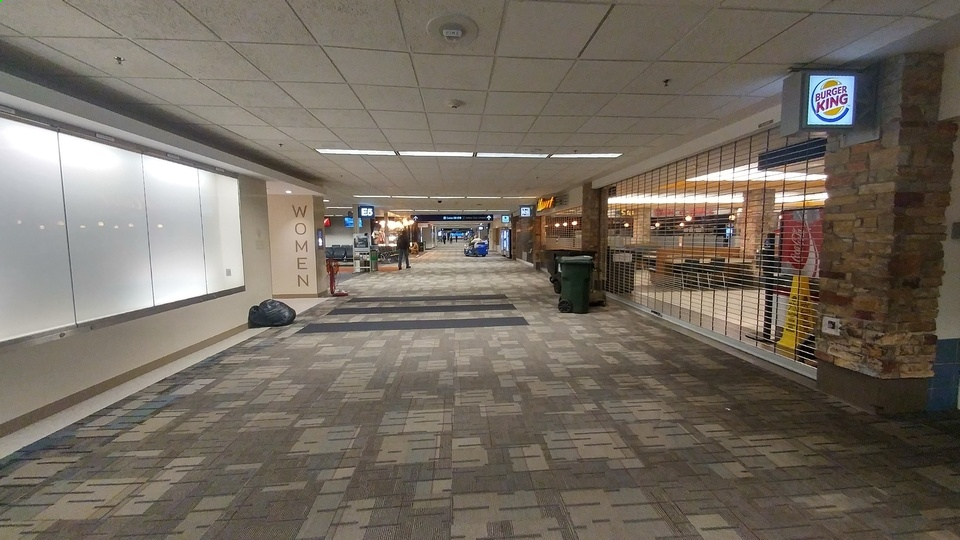
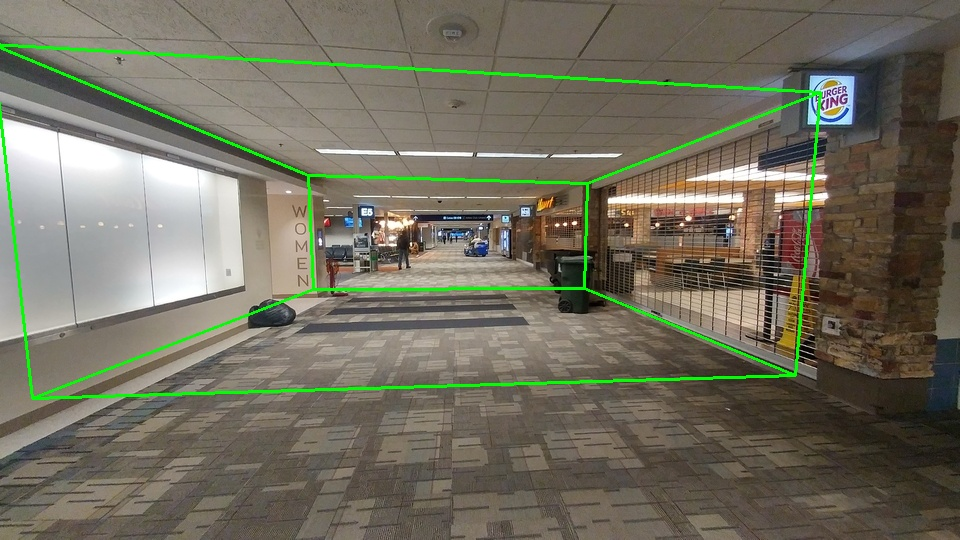
update hw2

diff --git a/hw2/HW2.py b/hw2/HW2.py
@@ -2,6 +2,7 @@ import os
 import cv2
 import numpy as np
 from pylsd import lsd
+import matplotlib.pyplot as plt
 
 np.random.seed(42)
 SAVE_IMGS = True
@@ -105,7 +106,6 @@ def FindVP(lines, K, ransac_thr = 0.04, ransac_iter = 5000):
 
     return vp_max, inlier, outlier
 
-
 def ClusterLines(lines):
     """
     Cluster lines into two sets
@@ -170,7 +170,6 @@ def CalibrateCamera(vp_x, vp_y, vp_z):
     ])
     return K
 
-
 def GetRectificationH(K, vp_x, vp_y, vp_z):
     """
     Find a homography for rectification
@@ -206,8 +205,8 @@ def GetRectificationH(K, vp_x, vp_y, vp_z):
     R = basis @ np.linalg.inv(new_basis)
 
     H_rect = K @ R @ np.linalg.inv(K)
-    return H_rect
 
+    return H_rect
 
 def ImageWarping(im, H):
     """
@@ -228,7 +227,6 @@ def ImageWarping(im, H):
     
     # TODO Your code goes here
     return cv2.warpPerspective(im, H, (im.shape[1], im.shape[0]))
-
 
 def ConstructBox(K, vp_x, vp_y, vp_z, W, a, d_near, d_far):
     """
@@ -274,21 +272,43 @@ def ConstructBox(K, vp_x, vp_y, vp_z, W, a, d_near, d_far):
     x_direction = x_direction / np.linalg.norm(x_direction)
     y_direction = y_direction / np.linalg.norm(y_direction)
 
+    #imgae 좌표계로 변환
+
     H = W / a
 
     # U
-    far_center = d_far * np.linalg.inv(K) @ z_direction
+    far_center = d_far * z_direction
     U11 = far_center + H/2 * x_direction + W/2 * y_direction
     U12 = far_center + H/2 * x_direction - W/2 * y_direction
     U21 = far_center - H/2 * x_direction + W/2 * y_direction
     U22 = far_center - H/2 * x_direction - W/2 * y_direction
 
     # V
-    near_center = d_near * np.linalg.inv(K) @ z_direction
+    near_center = d_near *  z_direction
     V11 = near_center + H/2 * x_direction + W/2 * y_direction
     V12 = near_center + H/2 * x_direction - W/2 * y_direction
     V21 = near_center - H/2 * x_direction + W/2 * y_direction
     V22 = near_center - H/2 * x_direction - W/2 * y_direction
+
+    #각 포인트 normalizing
+    U11 = U11 / U11[2]
+    U12 = U12 / U12[2]
+    U21 = U21 / U21[2]
+    U22 = U22 / U22[2]
+    V11 = V11 / V11[2]
+    V12 = V12 / V12[2]
+    V21 = V21 / V21[2]
+    V22 = V22 / V22[2]
+
+    #이미지 좌표계로 변환
+    # U11 = K @ U11 / U11[2]
+    # U12 = K @ U12 / U12[2]
+    # U21 = K @ U21 / U21[2]
+    # U22 = K @ U22 / U22[2]
+    # V11 = K @ V11 / V11[2]
+    # V12 = K @ V12 / V12[2]
+    # V21 = K @ V21 / V21[2]
+    # V22 = K @ V22 / V22[2]
     
     return U11, U12, U21, U22, V11, V12, V21, V22
 
@@ -377,7 +397,6 @@ def InterpolateCameraPose(R1, C1, R2, C2, w):
     
     return Ri, Ci
 
-
 def GetPlaneHomography(p11, p12, p21, K, R, C, vx, vy):
     """
     Interpolate the camera pose
@@ -394,7 +413,7 @@ def GetPlaneHomography(p11, p12, p21, K, R, C, vx, vy):
         Camera intrinsic parameters
     R : ndarray of shape (3, 3)
         Camera rotation matrix
-    C : ndarray of shape (3,)
+    t : ndarray of shape (3,)
         Camera optical center
     vx : ndarray of shape (h, w)
         All x coordinates in the image
@@ -409,9 +428,51 @@ def GetPlaneHomography(p11, p12, p21, K, R, C, vx, vy):
         The binary mask indicating membership to the plane constructed by p11, 
         p12, and p21
     """
+
+    # vx, vy 로 그리드를 생성
+    w = len(vx)
+    h = len(vy)
+    vx, vy = np.meshgrid(vx, vy)
+    vx = vx.flatten()
+    vy = vy.flatten()
+    v = np.vstack([vx, vy, np.ones(vx.shape)])
+
+    # 그리드를 카메라 좌표계로 변환
+    p = np.linalg.inv(K) @ v
+
+    p22 = p21 + p12 - p11
+    px_max = max(p11[0], p12[0], p21[0], p22[0])
+    px_min = min(p11[0], p12[0], p21[0], p22[0])
+    py_max = max(p11[1], p12[1], p21[1], p22[1])
+    py_min = min(p11[1], p12[1], p21[1], p22[1])
     
-    # TODO Your code goes here
-    pass
+    #p 배열이서 p11, p12, p21, p22 사각형 안에 있는 점들만 님기기 #그냥 직사각형이라고 가정
+    new_p = []
+    for i in range(p.shape[1]):
+        if p[0,i] >= px_min and p[0,i] <= px_max and p[1,i] >= py_min and p[1,i] <= py_max:
+            new_p.append(p[:,i])
+    new_p = np.array(new_p).T
+
+    RC = np.hstack((R, -R @ C.reshape(-1,1)))
+
+    H = K @ RC
+    Hi = H[:, :3]
+    H = Hi @ np.linalg.inv(K)
+
+    new_p = Hi @ new_p
+    new_p = new_p / new_p[2,:]
+
+    canvas = np.zeros((h, w))
+    for i in range(new_p.shape[1]):
+        x,y = new_p[0,i], new_p[1,i]
+        if x < 0 or x >= w or y < 0 or y >= h:
+            continue
+        canvas[int(y), int(x)] = 1
+        
+        
+    visibility_mask = canvas
+    return H ,visibility_mask
+
 
 SAVE_RESULT = True
 
@@ -523,20 +584,34 @@ if __name__ == '__main__':
 	#####################################################################
     # Construct 3D representation of the scene using a box model
     W = 1
-    aspect_ratio = 2.5
-    near_depth = 0.4
+    aspect_ratio = 1/2.5
+    near_depth = 1.4
     far_depth = 4
 
 	# TODO Your code goes here
     U11, U12, U21, U22, V11, V12, V21, V22 = ConstructBox(K, xvp, yvp, zvp, W, aspect_ratio, near_depth, far_depth)
-    U11 = 
-    if SAVE_IMGS:
-        im_box = np.copy(im)
-        for U, V in [(U11, U12), (U12, U22), (U22, U21), (U21, U11), (V11, V12), (V12, V22), (V22, V21), (V21, V11)]:
-            U = U / U[2]
-            V = V / V[2]
-            cv2.line(im_box, (int(U[0]), int(U[1])), (int(V[0]), int(V[1])), (0, 255, 0), 2)
-        cv2.imwrite('airport_box.jpg', im_box)
+
+    # if SAVE_IMGS:
+    #     im_box = np.copy(im)
+    #     cv2.line(im_box, (int(U11[0]), int(U11[1])), (int(V11[0]), int(V11[1])), (0, 255, 0), 2)
+    #     cv2.line(im_box, (int(U12[0]), int(U12[1])), (int(V12[0]), int(V12[1])), (0, 255, 0), 2)
+    #     cv2.line(im_box, (int(U21[0]), int(U21[1])), (int(V21[0]), int(V21[1])), (0, 255, 0), 2)
+    #     cv2.line(im_box, (int(U22[0]), int(U22[1])), (int(V22[0]), int(V22[1])), (0, 255, 0), 2)
+
+    #     cv2.line(im_box, (int(U11[0]), int(U11[1])), (int(U12[0]), int(U12[1])), (0, 255, 0), 2)
+    #     cv2.line(im_box, (int(U21[0]), int(U21[1])), (int(U22[0]), int(U22[1])), (0, 255, 0), 2)
+    #     cv2.line(im_box, (int(V11[0]), int(V11[1])), (int(V12[0]), int(V12[1])), (0, 255, 0), 2)
+    #     cv2.line(im_box, (int(V21[0]), int(V21[1])), (int(V22[0]), int(V22[1])), (0, 255, 0), 2)
+
+    #     cv2.line(im_box, (int(U12[0]), int(U12[1])), (int(U22[0]), int(U22[1])), (0, 255, 0), 2)
+    #     cv2.line(im_box, (int(U11[0]), int(U11[1])), (int(U21[0]), int(U21[1])), (0, 255, 0), 2)
+    #     cv2.line(im_box, (int(V12[0]), int(V12[1])), (int(V22[0]), int(V22[1])), (0, 255, 0), 2)
+    #     cv2.line(im_box, (int(V11[0]), int(V11[1])), (int(V21[0]), int(V21[1])), (0, 255, 0), 2)
+        
+    #     cv2.imwrite('airport_box.jpg', im_box)
+    #     im_box_warp = ImageWarping(im_box, H)
+    #     cv2.imwrite('airport_box_warped.jpg', im_box_warp)
+    
     
 	#####################################################################
     # The sequence of camera poses
@@ -570,18 +645,37 @@ if __name__ == '__main__':
 
 	#####################################################################
     # Render images from the interpolated virtual camera poses
-interpol_num = 10
 
 
+    interpol_num = 5
+    rotations = []
+    centers = []
+    for i in range(len(R_list) - 1):
+        for j in range(interpol_num):
+            w = j / interpol_num
+            Ri, Ci = InterpolateCameraPose(R_list[i], C_list[i], R_list[i+1], C_list[i+1], w)
+            rotations.append(Ri)
+            centers.append(Ci)
 
-rotations = []
-centers = []
-for i in range(len(R_list) - 1):
-    for j in range(interpol_num):
-        w = j / interpol_num
-        Ri, Ci = InterpolateCameraPose(R_list[i], C_list[i], R_list[i+1], C_list[i+1], w)
-        rotations.append(Ri)
-        centers.append(Ci)
+    for i in range(len(rotations)):
+        canvas = np.zeros((im_h, im_w, 3))
+        H, visibility_mask = GetPlaneHomography(U11, U12, U21, K, rotations[i], centers[i], np.arange(im_w), np.arange(im_h))
+        plane1 = (ImageWarping(im, H) * visibility_mask[:,:,np.newaxis]).astype(np.uint8)
+        canvas += plane1
 
-for i in range(len(rotations)):
-    pass
+        H, visibility_mask = GetPlaneHomography(V11, V12, U11, K, rotations[i], centers[i], np.arange(im_w), np.arange(im_h))
+        plane2 = (ImageWarping(im, H) * visibility_mask[:,:,np.newaxis]).astype(np.uint8)
+        canvas *= 1 - visibility_mask[:,:,np.newaxis]
+        canvas += plane2
+        canvas = canvas
+
+        # H, visibility_mask = GetPlaneHomography(U22, V22, U12, K, rotations[i], centers[i], np.arange(im_w), np.arange(im_h))
+        # plane3 = (ImageWarping(im, H) * visibility_mask[:,:,np.newaxis]).astype(np.uint8)
+        # canvas *= 1 - visibility_mask[:,:,np.newaxis]
+        # canvas += plane3
+        # canvas = canvas.astype(np.uint8)
+
+        if SAVE_RESULT:
+            cv2.imwrite(f'results/airport_rendered_{ str(100+i)[1:]}.jpg', canvas)
+        
+
